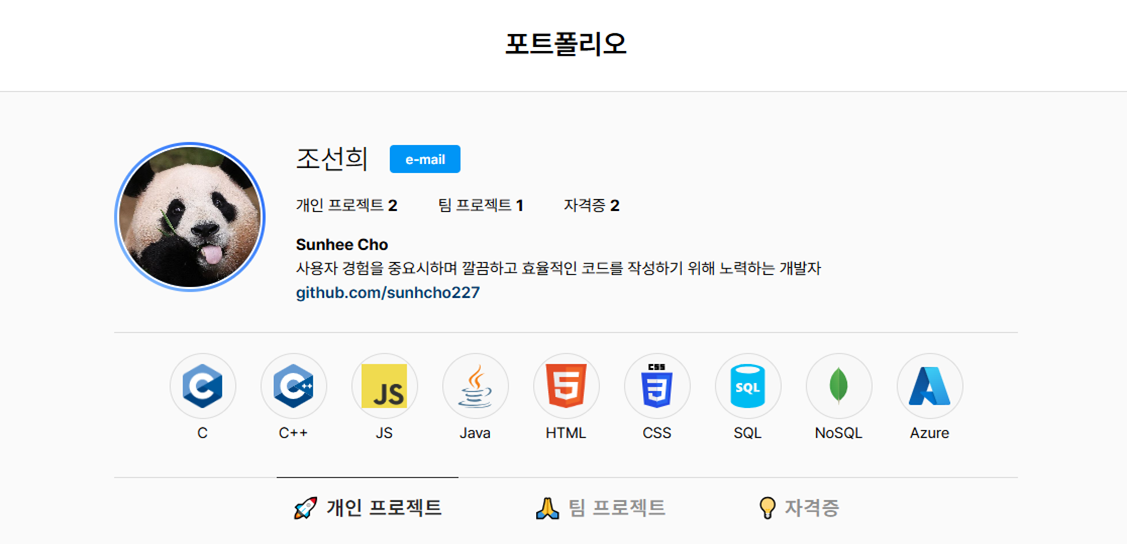
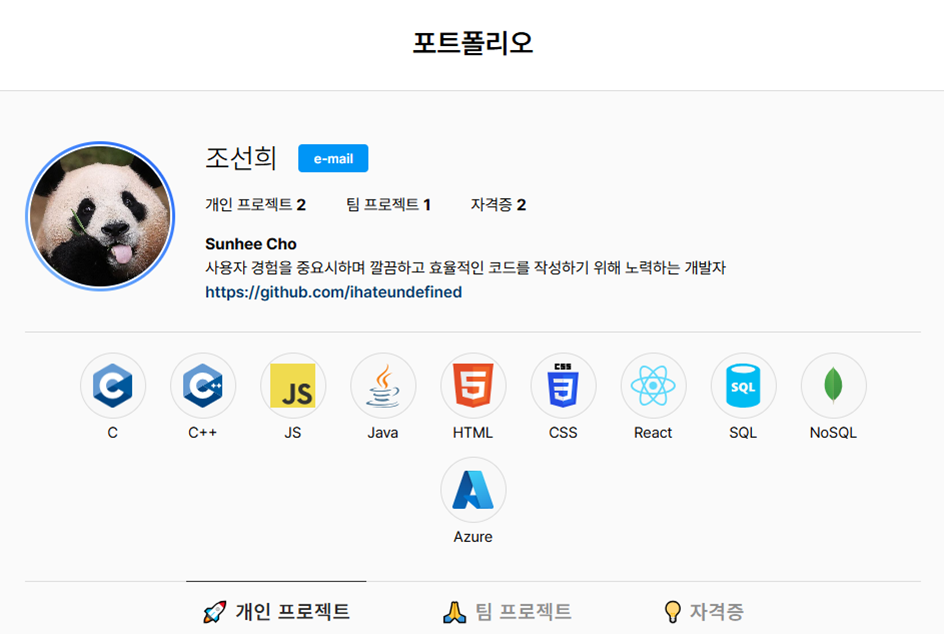
주소 수정

diff --git a/index.html b/index.html
@@ -64,7 +64,7 @@
           </div>
           <div class="website">
             <a href="https://github.com/sunhcho227" id="website-link"
-              >github.com/sunhcho227</a
+              >https://github.com/ihateundefined</a
             >
           </div>
         </div>
@@ -272,7 +272,7 @@
             </div>
             
             <div class="link-container">
-              <a href="https://github.com/sunhcho227/MyPortfolio" class="link-button">GitHub</a>
+              <a href="https://github.com/ihateundefined/MyPortfolio" class="link-button">GitHub</a>
             </div>
           </div>
           
